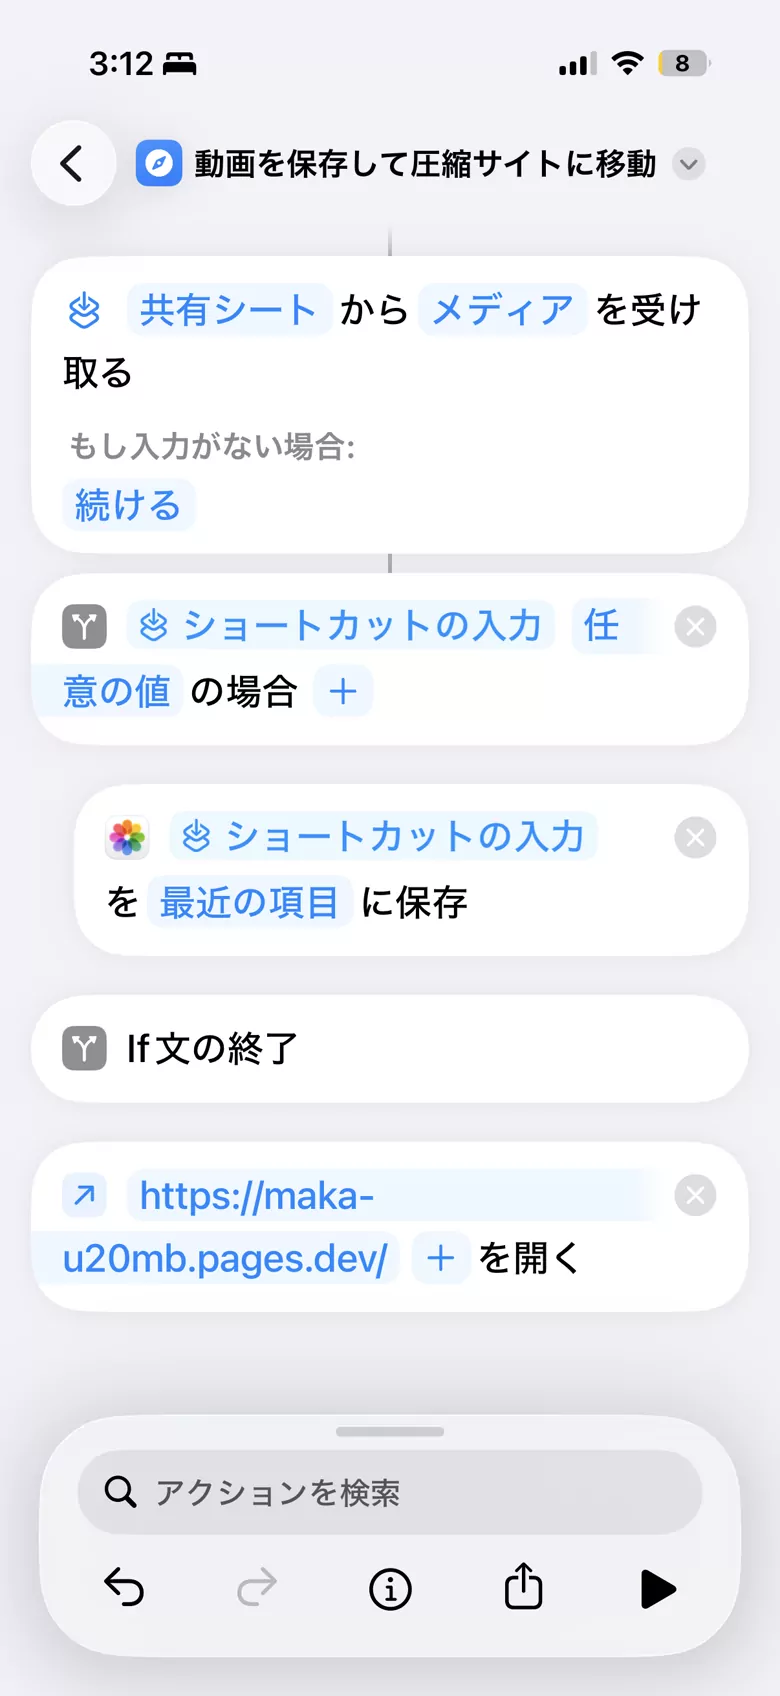
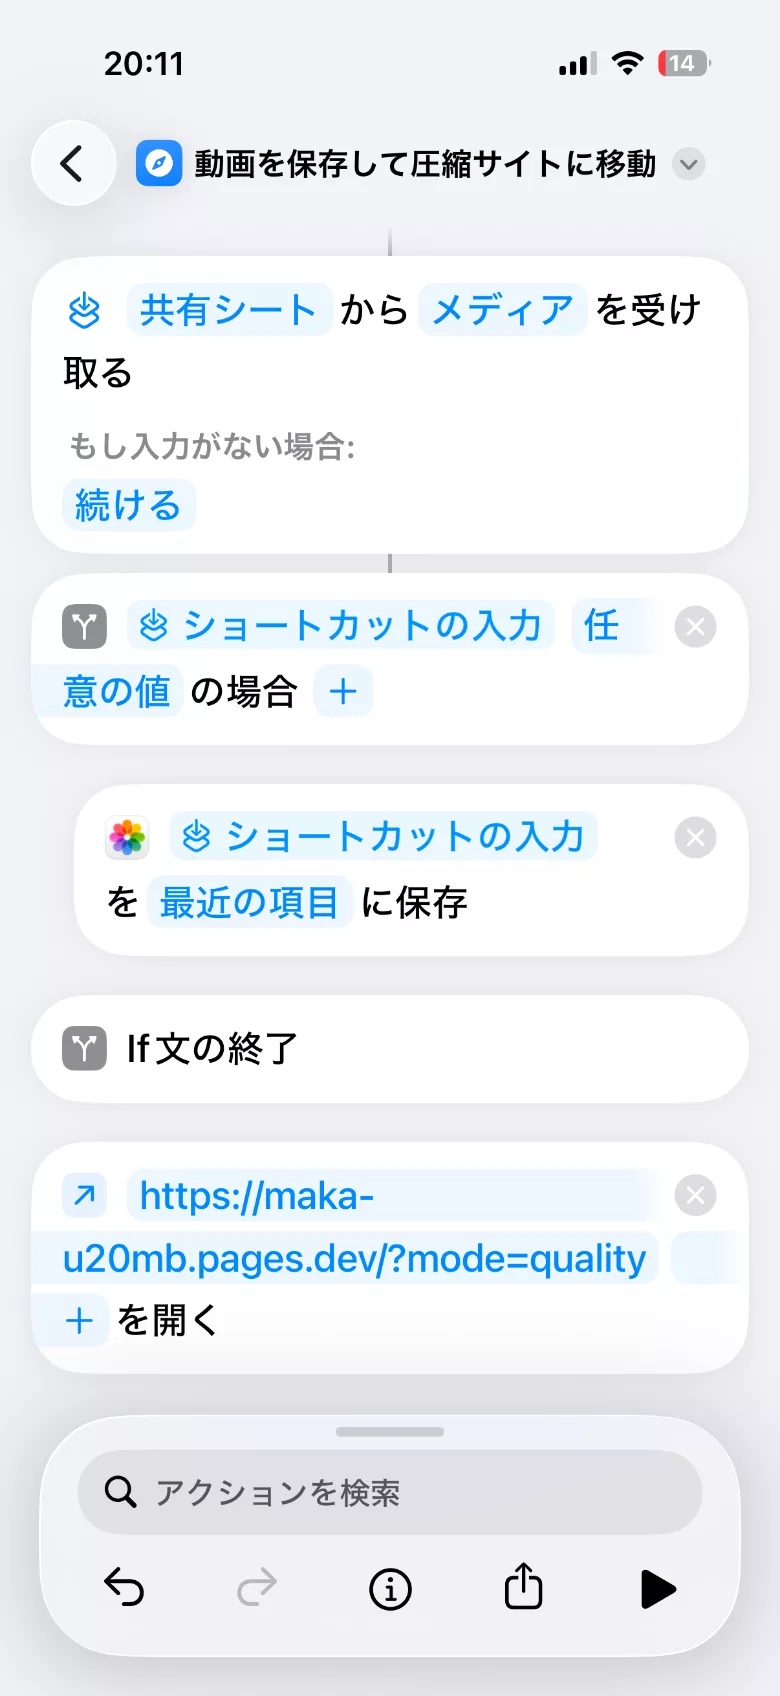
Shortcut guide: new iCloud shortcut that opens ?mode=quality
- Link to the new iCloud shortcut
- sc-shortcut.webp and sc-url-paste.webp from the new shortcut screenshot (URL ends with ?mode=quality); the paste image keeps its circle and note
- Alt texts and the first example mention that the shared shortcut uses this URL

Claude-Session: https://claude.ai/code/session_01Kjx2uZRnB9w1XNEyRL87P8

diff --git a/public/shortcut.html b/public/shortcut.html
@@ -266,11 +266,11 @@
 
   <h3>① iCloudにアップロードしたショートカットを取り込む</h3>
   <p>下のリンクを押すと取り込めます。</p>
-  <p><a class="url" href="https://www.icloud.com/shortcuts/7386207ca3c140a4b3d74bafb5e07e1b" target="_blank" rel="noopener noreferrer">https://www.icloud.com/shortcuts/7386207ca3c140a4b3d74bafb5e07e1b</a></p>
+  <p><a class="url" href="https://www.icloud.com/shortcuts/72f8ad1e2b754df9bf87d57e7b2885fa" target="_blank" rel="noopener noreferrer">https://www.icloud.com/shortcuts/72f8ad1e2b754df9bf87d57e7b2885fa</a></p>
 
   <h3>② ショートカットを写す</h3>
   <p>アップロードしたショートカットと同一のものです。リンクを踏むのが不安であればこちらで。</p>
-  <img class="shot" src="./help/sc-shortcut.webp" width="390" height="848" loading="lazy" alt="ショートカットの中身：共有シートからメディアを受け取る（入力がない場合は続ける）／ショートカットの入力が任意の値の場合、ショートカットの入力を最近の項目に保存／If文の終了／https://maka-u20mb.pages.dev/ を開く">
+  <img class="shot" src="./help/sc-shortcut.webp" width="390" height="848" loading="lazy" alt="ショートカットの中身：共有シートからメディアを受け取る（入力がない場合は続ける）／ショートカットの入力が任意の値の場合、ショートカットの入力を最近の項目に保存／If文の終了／https://maka-u20mb.pages.dev/?mode=quality を開く">
 
   <h2>3. 実行する</h2>
   <p>共有シートを開いて「動画を保存して圧縮サイトに移動」を押すだけ。</p>
@@ -301,11 +301,11 @@
   <img class="shot" src="./help/sc-url.webp" width="390" height="844" loading="lazy" alt="「詳しく設定する」の設定の画面で「現在の設定を記憶したURLを生成してコピー」を押すと、今の設定を入れたURLがコピーされる">
 
   <p class="section-lead">設定を保存したURLをコピーしたら、ショートカットの一番下のURL部分にペーストしてください。</p>
-  <img class="shot" src="./help/sc-url-paste.webp" width="390" height="848" loading="lazy" alt="ショートカットの一番下の「URLを開く」のURLの部分（https://maka-u20mb.pages.dev/）に、コピーしたURLをペーストする">
+  <img class="shot" src="./help/sc-url-paste.webp" width="390" height="848" loading="lazy" alt="ショートカットの一番下の「URLを開く」のURLの部分（https://maka-u20mb.pages.dev/?mode=quality）に、コピーしたURLをペーストする">
 
   <p class="section-lead">例えば、ショートカットの「URLを開く」に次のURLを入れます。</p>
   <div class="example">
-    <p class="example-title">なるべくサイズを軽くしたいなら（720p・なるべく圧縮）</p>
+    <p class="example-title">なるべくサイズを軽くしたいなら（720p・なるべく圧縮。配布しているショートカットはこのURLです）</p>
     <p><a class="url" href="./?mode=quality">https://maka-u20mb.pages.dev/?mode=quality</a></p>
   </div>
   <div class="example">

diff --git a/public/app.js b/public/app.js
@@ -57,7 +57,7 @@
   var KEYFRAME_INTERVAL = 2;             // 秒
   var MIN_TRIM_LENGTH = 0.5;             // 秒
   var AUDIO_DECODE_MAX_BYTES = 400 * MB;   // 互換モードで音声を扱うファイルサイズの上限
-  var APP_VERSION = '2026-10-01h';        // 診断情報に出す（どの版で起きたかを見分ける）
+  var APP_VERSION = '2026-10-01i';        // 診断情報に出す（どの版で起きたかを見分ける）
   var CANCELLED = 'cancelled';
   var SNAPSHOT_MAX_BYTES = 600 * MB;     // Android で動画をブラウザ内に写し取る上限（これより大きい動画は写さない）
   var STALLED = 'stalled';

diff --git a/public/sw.js b/public/sw.js
@@ -9,7 +9,7 @@
 'use strict';
 
 var CACHE_PREFIX = 'video-compressor-under20mb-';   // このアプリのキャッシュ名の頭（同じドメインの別アプリのキャッシュは消さない）
-var CACHE = CACHE_PREFIX + 'v175';
+var CACHE = CACHE_PREFIX + 'v176';
 var NETWORK_TIMEOUT_MS = 3000;   // ネット優先のとき、ネットの応答をこれだけ待ってからキャッシュを使う
 
 // Cloudflare Pages のプレビュー（<ブランチ名>.<プロジェクト名>.pages.dev）と手元の確認環境だけネット優先にする
